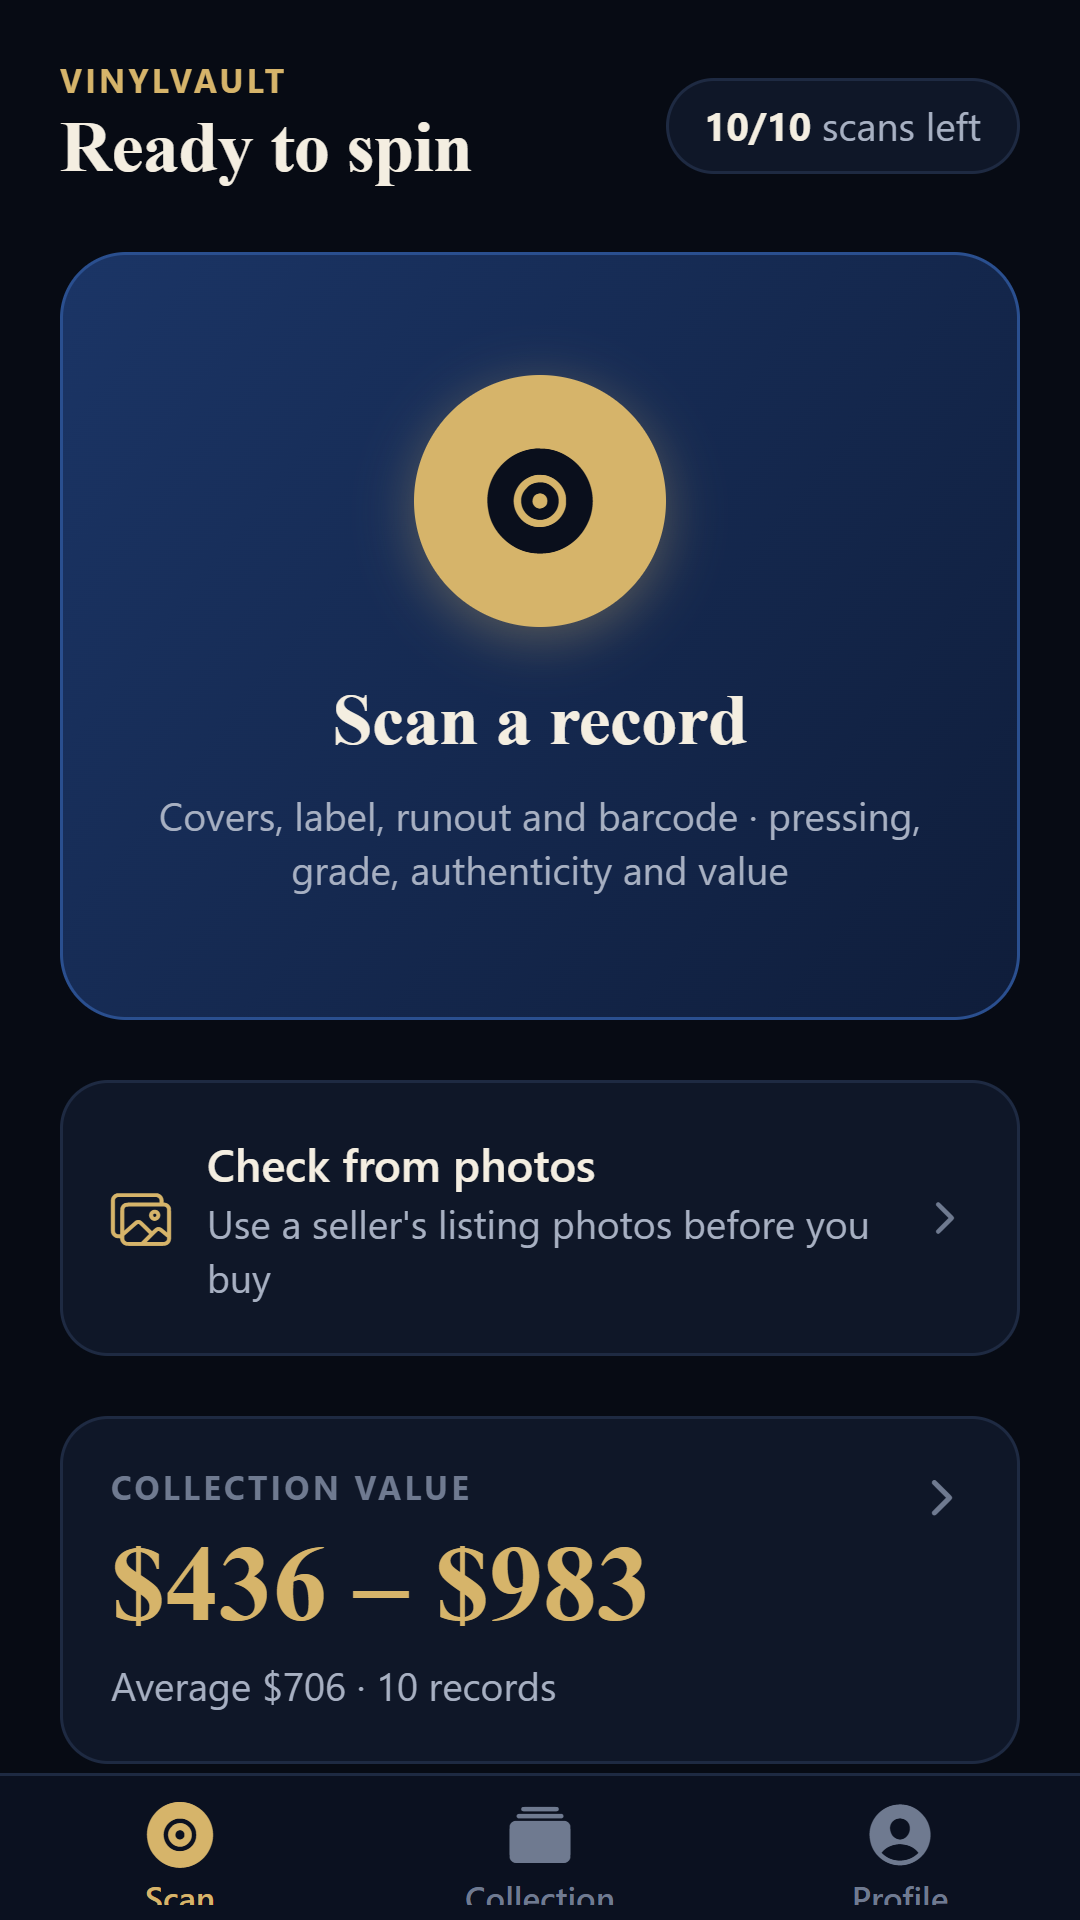
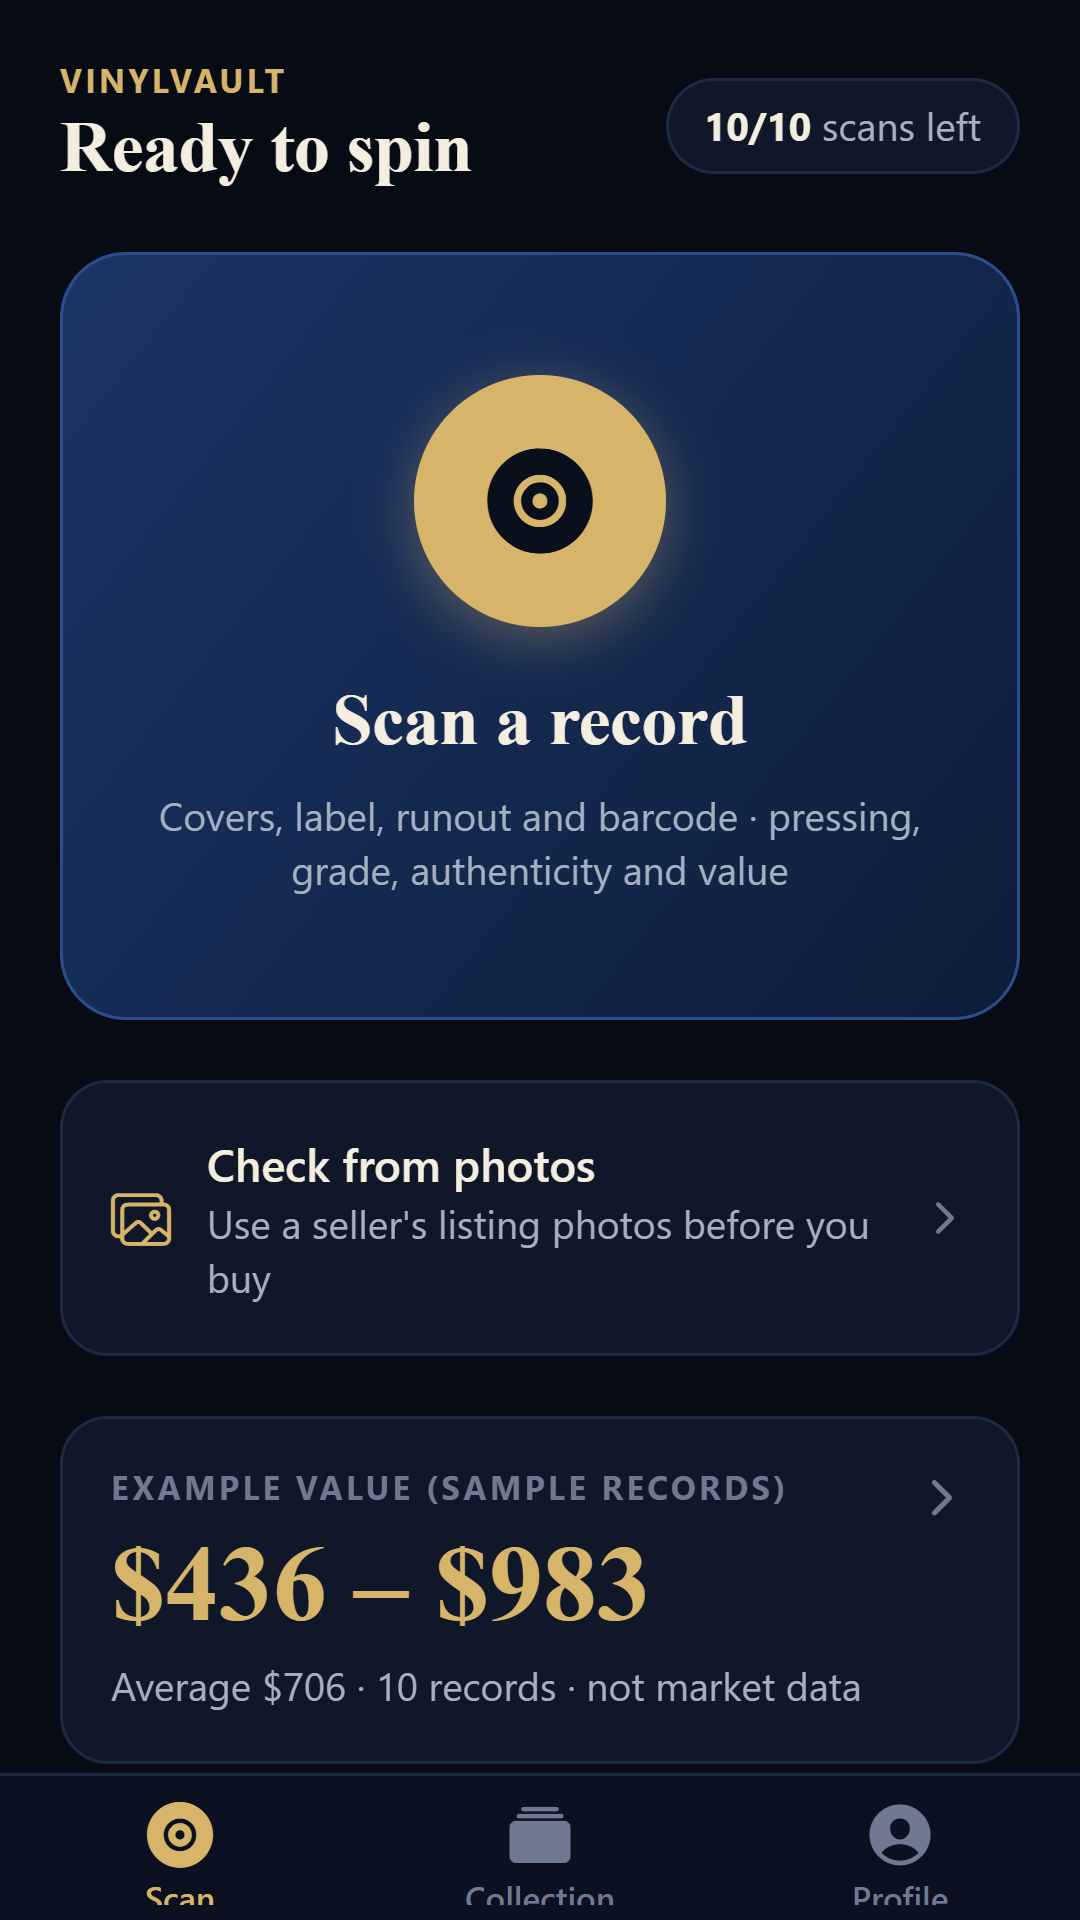
Store screenshots with made-up artists, albums and labels

Changed region(s): [[0.1222, 0.75, 0.7333, 0.7812], [0.6111, 0.875, 0.7944, 0.9062], [0.55, 0.875, 0.5806, 0.9062]]

diff --git a/store-listing/google-play-listing.md b/store-listing/google-play-listing.md
@@ -52,7 +52,7 @@ GOOD TO KNOW
 - App icon: play-icon-512.png (512 × 512)
 - Feature graphic: feature-graphic-1024x500.png
 - Phone screenshots: 2 to 8 needed (Home, a scan result, the collection, a record's detail)
-- **To do before the next submission (28 Oct 2026 policy check):** the current screenshots (`screenshot-*.png` here and in `app-store/`) show real artists, albums and labels (Pink Floyd, Miles Davis, Harvest) and invented example prices ($415, a total of $436–$983). Regenerate them with **fictional** artists, titles and labels, and with prices either hidden or clearly marked "Example". Then upload the new set in Play Console and App Store Connect. Not done yet.
+- Screenshots regenerated 30 Oct 2026 by `scripts/store-screenshots.mjs`, which swaps every real artist, album, label and catalogue number in the sample data for made-up ones (Violet Engine, Milo Daniels, Lew Mercer…); sample prices are labelled "Example value (sample records)" and "not market data". App Store set (`app-store/`, IOS=1) still to regenerate.
 
 ---
 
